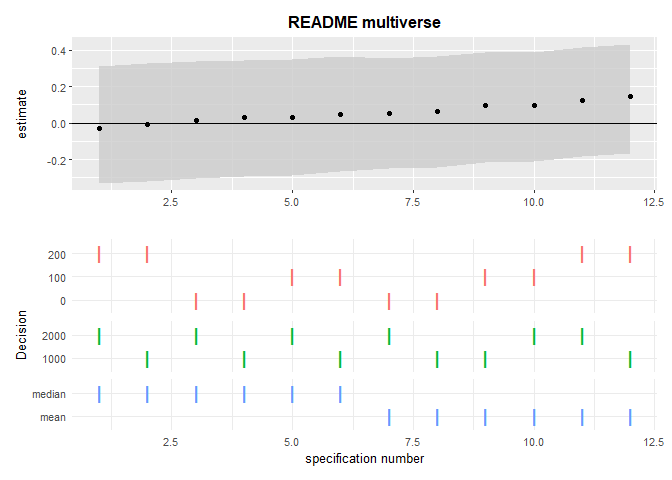
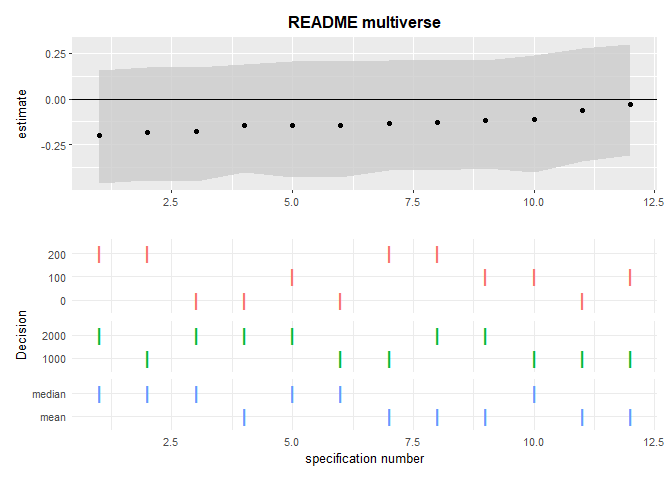
corrected doi

diff --git a/README.md b/README.md
@@ -9,14 +9,14 @@ Version](http://www.r-pkg.org/badges/version/splithalf)](https://cran.r-project.
 
 # splithalf: robust estimates of split half reliability
 
-The `R` package *splithalf* provides tools to estimate the internal
+The `R` package **splithalf** provides tools to estimate the internal
 consistency reliability of cognitive measures. In particular, the tools
 were developed for application to tasks that use difference scores as
 the main outcome measure, for instance the Stroop score or dot-probe
 attention bias index (average RT in incongruent trials minus average RT
 in congruent trials).
 
-The methods in *splithalf* are built around split half reliability
+The methods in **splithalf** are built around split half reliability
 estimation. To increase the robustness of these estimates, the package
 implements a permutation approach that takes a large number of random
 (without replacement) split halves of the data. For each permutation the
@@ -34,7 +34,7 @@ questions of individual differences researchers need to have some
 psychometric information for the outcome measures. Recently, it was
 proposed that psychological science should set a standard expectation
 for the reporting of reliability information for cognitive and
-behavioural measures (2019). *splithalf* was developed to support this
+behavioural measures (2019). **splithalf** was developed to support this
 proposition by providing a tool to easily extract internal consistency
 reliability estimates from behavioural measures. \#\# Installation
 
@@ -51,15 +51,15 @@ The current developmental version can be installed from Github with:
 devtools::install_github("sdparsons/splithalf")
 ```
 
-*splithalf* requires the *tidyr* (Wickham and Henry 2019) and *dplyr*
-(Wickham et al. 2018) packages for data handling within the functions.
-The *robustbase* package is used to extract median scores when
-applicable. The computationally heavy tasks (extracting many random half
-samples of the data) are written in `c++` via the `R` package *Rcpp*
-(Eddelbuettel et al. 2018). Figures use the *ggplot* package (Wickham
-2016), raincloud plots use code adapted from Allen et al. (Allen et al.
-2019), and the *patchwork* package (Pedersen 2019) is used for plotting
-the multiverse analyses.
+**splithalf** requires the **tidyr** (Wickham and Henry 2019) and
+**dplyr** (Wickham et al. 2018) packages for data handling within the
+functions. The **robustbase** package is used to extract median scores
+when applicable. The computationally heavy tasks (extracting many random
+half samples of the data) are written in `c++` via the `R` package
+**Rcpp** (Eddelbuettel et al. 2018). Figures use the **ggplot** package
+(Wickham 2016), raincloud plots use code adapted from Allen et
+al. (Allen et al. 2019), and the **patchwork** package (Pedersen 2019)
+is used for plotting the multiverse analyses.
 
 ### Citing the package
 
@@ -195,7 +195,7 @@ need, and are aimed to make the *splithalf* function easy to use.
 
 Are you interested in response times, or accuracy rates?
 
-Knowing this, you can set *outcome* = “RT”, or *outcome* = “accuracy”
+Knowing this, you can set `outcome = "RT"`, or `outcome = "accuracy"`
 
 2.  **How is your outcome score calculated?**
 
@@ -203,8 +203,8 @@ Say that your response time based task has two trial types;
 “incongruent” and “congruent”. When you analyse your data will you
 use the average RT in each trial type, or will you create a difference
 score (or bias) by e.g. subtracting the average RT in congruent trials
-from the average RT in incongruent trials. The first I call “average”
-and the second I call “difference”.
+from the average RT in incongruent trials. The first can be called with
+`score = "average"` and the second with `score = "difference"`.
 
 3.  **Which method would you like to use to estimate (split-half)
     reliability?**
@@ -258,18 +258,18 @@ sim_data %>%
   mutate(bias = congruent - incongruent)
 # A tibble: 120 x 5
 # Groups:   participant_number, block_name [120]
-   participant_number block_name congruent incongruent   bias
-                <int> <fct>          <dbl>       <dbl>  <dbl>
- 1                  1 A               502.        506.  -4.61
- 2                  1 B               561.        504.  56.7 
- 3                  2 A               521.        479.  42.0 
- 4                  2 B               515.        517.  -1.93
- 5                  3 A               471.        484. -12.9 
- 6                  3 B               522.        517.   4.74
- 7                  4 A               487.        480.   7.19
- 8                  4 B               505.        474.  30.4 
- 9                  5 A               475.        406.  69.7 
-10                  5 B               541.        511.  29.7 
+   participant_number block_name congruent incongruent  bias
+                <int> <fct>          <dbl>       <dbl> <dbl>
+ 1                  1 A               462.        452.  10.2
+ 2                  1 B               454.        481. -26.9
+ 3                  2 A               488.        445.  43.4
+ 4                  2 B               504.        522. -18.1
+ 5                  3 A               538.        511.  27.0
+ 6                  3 B               517.        545. -28.2
+ 7                  4 A               488.        467.  21.2
+ 8                  4 B               496.        515. -19.8
+ 9                  5 A               515.        482.  32.7
+10                  5 B               474.        534. -60.0
 # ... with 110 more rows
 ```
 
@@ -296,8 +296,8 @@ difference <- splithalf(data = sim_data,
 
 ``` 
   condition  n splithalf 95_low 95_high spearmanbrown SB_low SB_high
-1         A 60      0.01  -0.16    0.19          0.01  -0.28    0.32
-2         B 60     -0.07  -0.25    0.12         -0.13  -0.40    0.21
+1         A 60      0.01  -0.16    0.20          0.02  -0.27    0.34
+2         B 60      0.10  -0.08    0.28          0.16  -0.15    0.44
 ```
 
 Specifying `plot = TRUE` will also allow you to plot the distributions
@@ -336,7 +336,7 @@ formula is not useful in this case.
 > We estimated the internal consitency of bias A and B using a
 > permutation-based splithalf approach (Parsons 2020a) with 5000 random
 > splits. The (Spearman-Brown corrected) splithalf internal consistency
-> of bias A was were *r*<sub>SB</sub> = 0.01, 95%CI \[-0.28,0.32\].
+> of bias A was were *r*<sub>SB</sub> = 0.02, 95%CI \[-0.27,0.34\].
 > 
 > — Parsons, 2020
 
@@ -366,8 +366,8 @@ var.trialnum will soon be depreciated
 
 ``` 
   condition  n splithalf 95_low 95_high spearmanbrown SB_low SB_high
-1         A 60      0.07  -0.11    0.26          0.12  -0.19    0.41
-2         B 60      0.09  -0.08    0.27          0.15  -0.16    0.43
+1         A 60     -0.01  -0.18    0.18         -0.02  -0.30    0.30
+2         B 60      0.07  -0.10    0.26          0.12  -0.18    0.41
 ```
 
 ### Difference-of-difference scores
@@ -418,7 +418,7 @@ Warning in splithalf(data = sim_data, outcome = "RT", score =
 
 ``` 
      condition  n splithalf 95_low 95_high spearmanbrown SB_low SB_high
-1 change score 60     -0.18  -0.34       0          -0.3  -0.51       0
+1 change score 60      0.15  -0.02    0.34          0.26  -0.03     0.5
 ```
 
 ## Multiverse analysis extension
@@ -503,7 +503,7 @@ data is contained within the package as `data/speedtest.csv`
 
 ## Future development
 
-The *splithalf* package is still under development. If you have
+The **splithalf** package is still under development. If you have
 suggestions for improvements to the package, or bugs to report, please
 raise an issue on github (<https://github.com/sdparsons/splithalf>).
 Currently, I have the following on my immediate to do list:
@@ -521,10 +521,11 @@ Currently, I have the following on my immediate to do list:
 
 ## Comparison to other software
 
-*splithalf* is the only package to implement all of these tools, in
+**splithalf** is the only package to implement all of these tools, in
 particular reliability multiverse analyses. Some other `R` packages
-offer a bootstrapped approach to split-half reliability *multicon*
-(Sherman 2015), *psych* (Revelle 2019), and *splithalfr* (Pronk 2020)
+offer a bootstrapped approach to split-half reliability **multicon**
+(Sherman 2015), **psych** (Revelle 2019), and **splithalfr** (Pronk
+2020)
 
 ## References
 
@@ -577,7 +578,7 @@ Parsons, Sam, Anne-Wil Kruijt, and Elaine Fox. 2019. “Psychological
 Science Needs a Standard Practice of Reporting the Reliability of
 Cognitive Behavioural Measurements.” Advances in Methods; Practices in
 Psychological Science.
-<https://doi.org/https://doi.org/10.1177/2515245919879695>.
+<https://doi.org/doi.org/10.1177/2515245919879695>.
 
 </div>
 
